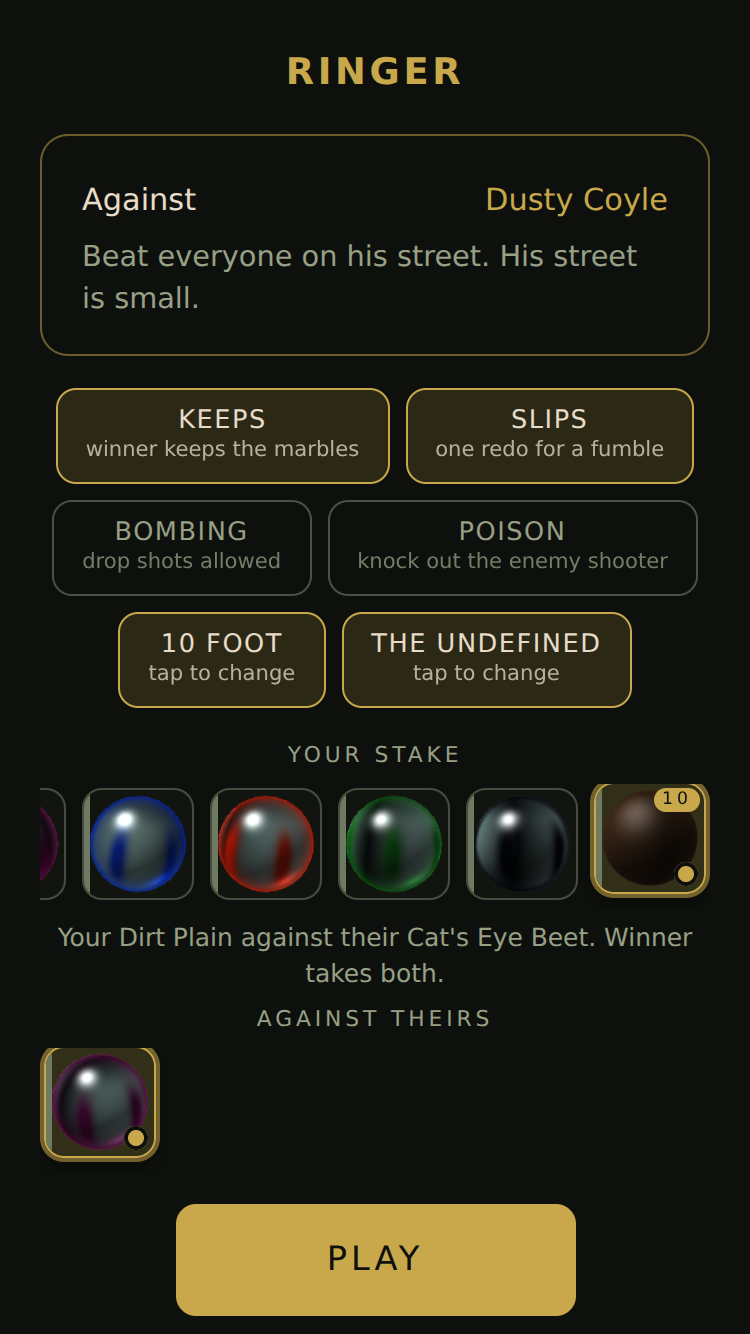
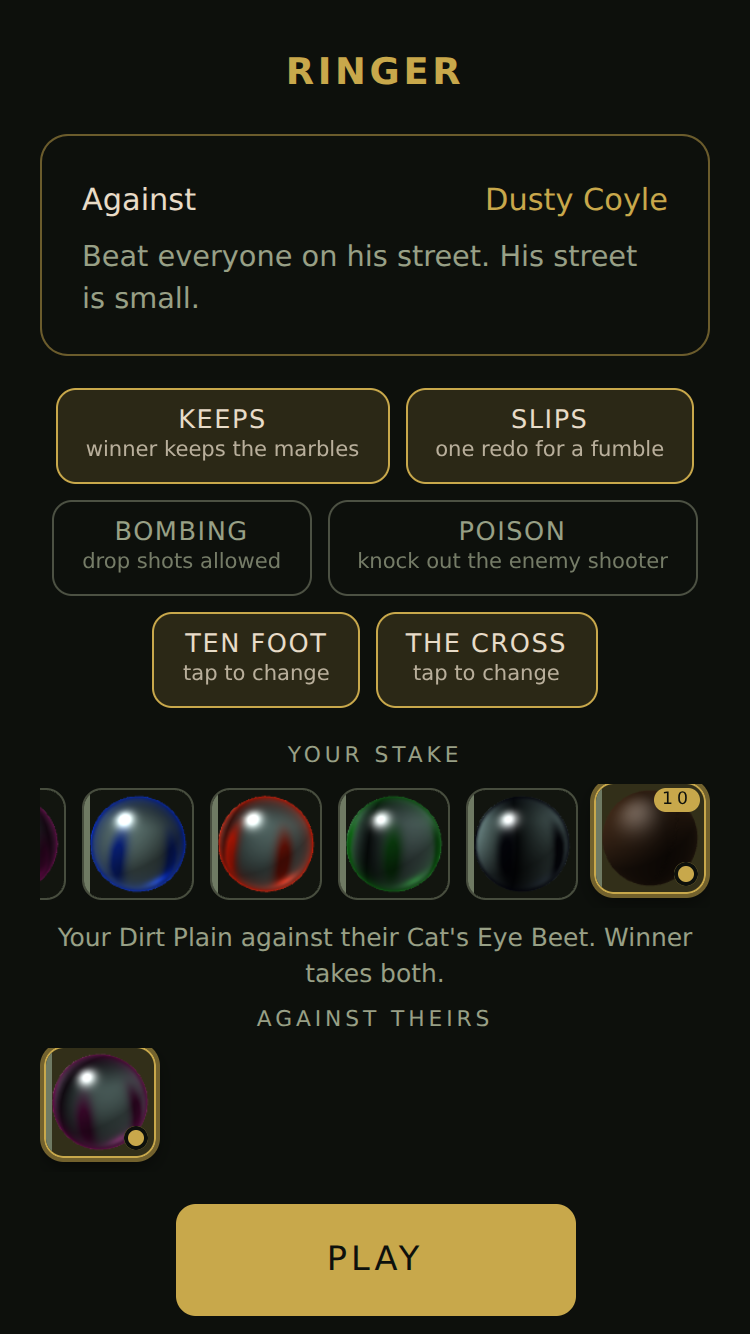
Keepsies m1 step 1: the defects first (every chip value has its word, the camera's floor guard with the near plane, no field line after a match, the active filter in view) [skip ci]
Claude-Session: https://claude.ai/code/session_01Dzsq6YAnDeV2iLzTfA6x3K

Changed region(s): [[0.1533, 0.461, 0.8587, 0.5532]]

diff --git a/satellites/keepsies/src/main.js b/satellites/keepsies/src/main.js
@@ -54,7 +54,7 @@ const G = {
   save: null, calibrator: null, lastRollAudio: 0, warming: false,
   assist: true, lastAssist: 0, lastShooter: 0,
   scopeHold: false, nudgeTimer: 0, snapShown: false, aimUiOn: false,
-  houseRules: { keepsies: true, slips: true, bombing: false, poison: false, ringSizeFt: 10 },
+  houseRules: { keepsies: true, slips: true, bombing: false, poison: false, ringSizeFt: 10, formation: 'cross' },
   catalog: null, turntable: null, thumbs: null, filter: 'all', inspecting: null, econ: null,
   drops: null, dropRng: null, stake: [], theirStake: [], anteOk: false
 };
@@ -66,11 +66,17 @@ const HOUSE_RULES = [
   { key: 'slips', label: 'Slips', sub: 'one redo for a fumble' },
   { key: 'bombing', label: 'Bombing', sub: 'drop shots allowed' },
   { key: 'poison', label: 'Poison', sub: 'knock out the enemy shooter' },
-  { key: 'ringSizeFt', label: 'Ring', sub: 'seven, ten or thirteen foot', cycle: [7, 10, 13] },
+  { key: 'ringSizeFt', label: 'Ring', sub: 'seven, ten or thirteen foot', cycle: [7, 10, 13],
+    show: (v) => RING_WORD[v] || RING_WORD[10] },
   /* the lay of the thirteen: see FORMATIONS in game/ringer.js for what each one is */
   { key: 'formation', label: 'Lay', sub: 'cross, x, ring or bunch', cycle: ['cross', 'x', 'ring', 'bunch'],
-    show: (v) => 'the ' + v }
+    show: (v) => LAY_WORD[v] || LAY_WORD.cross }
 ];
+/* ⛔ EVERY VALUE A CHIP CAN HOLD HAS ITS WORD (Astra, 4 Nov: k1-setup printed THE UNDEFINED, the lay chip
+   reading a house rule that had no value until its first tap). A value with no word shows the game's
+   own default, which is also what the rules play (core/rules-ringer.js DEFAULT_HOUSE_RULES). */
+const RING_WORD = { 7: 'Seven foot', 10: 'Ten foot', 13: 'Thirteen foot' };
+const LAY_WORD = { cross: 'The cross', x: 'The X', ring: 'The ring', bunch: 'The bunch' };
 
 /* ------------------------------------------------------------------- boot */
 
@@ -261,6 +267,8 @@ function wireButtons() {
 
 function showScreen(name) {
   G.screen = name;
+  // a tester's under the floor camera (KEEPSIES_DEV.camera allowUnder) never outlives the screen it was asked on
+  if (G.rig) G.rig.state.allowUnder = false;
   $('title').hidden = name !== 'title';
   $('calib').hidden = name !== 'calib';
   $('setup').hidden = name !== 'setup';
@@ -604,6 +612,14 @@ function buildFilters() {
     b.addEventListener('click', () => { G.filter = key; buildFilters(); buildGrid(); });
     row.appendChild(b);
   }
+  /* ⛔ THE ACTIVE FILTER IS ALWAYS IN VIEW (Astra, 4 Nov, k2-collection: the strip ran past the edge). The
+     strip scrolls sideways, and rebuilding it on a tap threw the scroll back to All, so a tap on Grail
+     left the lit chip off the right edge. Centre the lit one in the strip, never the page. */
+  const lit = row.querySelector('button.on');
+  if (lit) {
+    const rr = row.getBoundingClientRect(), br = lit.getBoundingClientRect();
+    row.scrollLeft += (br.left + br.width / 2) - (rr.left + rr.width / 2);
+  }
 }
 
 /**
@@ -909,6 +925,7 @@ function startMatch(opts) {
   });
   buildMeshes();
   G.R.doLag();
+  G.over = false;
   say(G.R.match.turn === 0 ? 'You won the lag. Hold your shooter, then flick.'
     : (G.R.match.players[1].name + ' won the lag and shoots first.'));
   G.R.frameShot(G.rig, true);
@@ -1240,7 +1257,10 @@ function showSlip() {
   setTimeout(() => { $('slipCard').hidden = true; }, 1800);
 }
 function showPower(p) { $('power').hidden = false; $('powerFill').style.width = (p * 100).toFixed(0) + '%'; }
-function say(s) { G.said = s; $('say').textContent = s; }
+/* ⛔ THE VOICE BELONGS TO A LIVE MATCH (Astra, 4 Nov, k1-ceremony: "too soft to count" over the end of
+   the match). Once the match is over a late line from the field, a Knuckle cancel or the AI, is dropped;
+   the clearing call still clears, and an empty line hides its plate (#say:empty). */
+function say(s) { if (s && G.over && G.screen !== 'calib') return; G.said = s; $('say').textContent = s; }
 
 function showToast(id) {
   const t = RINGER_TECHNIQUES[id];
@@ -1340,6 +1360,7 @@ function paintRansomClock() {
 }
 
 function finishMatch(s) {
+  G.over = true;   // from here no line from the field reaches the voice (say)
   const won = s.winner === 0;
   // the opponent's name comes from the match, so league two does not still say Dusty
   const oppName = (G.R.match.players[1] || {}).name || 'Dusty Coyle';

diff --git a/satellites/keepsies/src/render/scene.js b/satellites/keepsies/src/render/scene.js
@@ -198,6 +198,18 @@ export function createOrbitRig(stage, opts) {
       if (!state.allowUnder) {
         if (state.elevationDeg < state.minElevationDeg) state.elevationDeg = state.minElevationDeg;
         if (state.elevationDeg > state.maxElevationDeg) state.elevationDeg = state.maxElevationDeg;
+        /* ⛔ AND NEVER UNDER THE DIRT AT ANY DISTANCE (Astra, 4 Nov, k1-under). The floor above is an angle;
+           a look point on the dirt with the closest pinch could still put the eye, or the near plane's
+           lower edge, under the ground plane. Both stay 4 mm above it: the angle rises until they do. This
+           runs every frame, so it holds after a zoom, a view change and a result transition alike. */
+        if (state.target.y < 0) state.target.y = 0;
+        const halfH = cam.near * Math.tan(cam.fov * Math.PI / 360);
+        for (let i = 0; i < 45; i++) {
+          const e = state.elevationDeg * Math.PI / 180;
+          const low = state.target.y + Math.sin(e) * state.distance - cam.near * Math.sin(e) - halfH * Math.cos(e);
+          if (low >= 0.004 || state.elevationDeg >= state.maxElevationDeg) break;
+          state.elevationDeg = Math.min(state.maxElevationDeg, state.elevationDeg + 2);
+        }
       }
       const el = state.elevationDeg * Math.PI / 180;
       const r = state.distance;

diff --git a/satellites/keepsies/index.html b/satellites/keepsies/index.html
@@ -309,6 +309,7 @@ button.sticky{position:sticky;top:calc(-24px + env(safe-area-inset-top,0px));z-i
    it landed straight on the far chalk arc, where cream on cream is unreadable. */
 /* the guidance line lives in the band that is dirt in every frame, between the shooter and what it is
    shooting at: pinned to the top it sat over the last marble (k2-endgame-one, 14% of the height) */
+#say:empty{display:none}
 #say{position:absolute;left:50%;transform:translateX(-50%);top:62%;
   max-width:88%;text-align:center;font-size:.82rem;line-height:1.3;color:var(--chalk);
   background:rgba(13,16,12,.62);border-radius:8px;padding:6px 12px}
